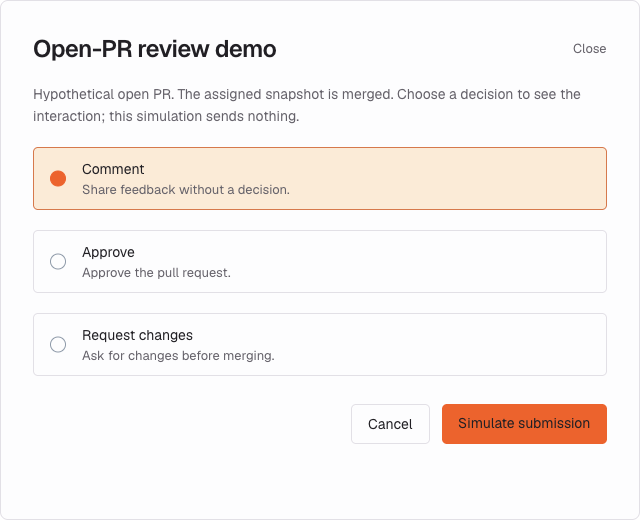
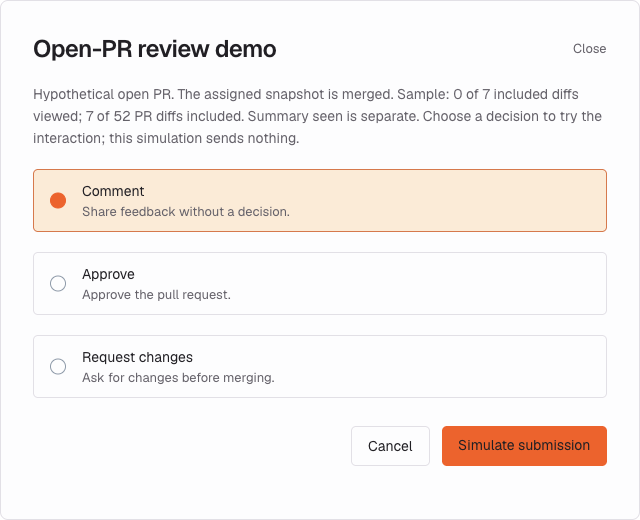
Clarify simulated review coverage and verify final submission

diff --git a/dist/app.js b/dist/app.js
@@ -216,9 +216,9 @@ function renderComments(){
  const t=data.thread;el.innerHTML=prefix+`<div class="source-filter"><span>Resolved messages shown</span><button class="text-link" data-action="hide-resolved">Hide</button></div><button class="thread-summary" data-action="open-thread"><strong>${esc(t.title)}</strong><small>${t.author} · ${t.severity} · Resolved · R${t.start}–${t.end}</small><span class="text-link">${state.thread?'Thread open':'Open historical thread'}</span></button>${state.thread?`<div class="comment-thread"><h3>Resolved source finding</h3><p>${esc(t.body)}</p><p class="small">Two reply bodies are not reproduced. Source resolution can be newer than the pinned code.</p><button class="text-link" data-comment-line="75">Add a local review note</button></div>`:''}`;
 }
 function showFiles(){if($('#dialog').open)$('#dialog').close();openDialog('Search layer 1 files',`<p>Nine verified file paths. Seven added-file diffs are included; two modified-file patches remain outside the fixture.</p><label for="file-search">Filter this layer’s files</label><input id="file-search" type="search" placeholder="Search nine verified paths"><p id="file-empty" class="small" hidden>No captured paths match. Clear the search to see all nine paths; other layers are outside this search.</p><div id="file-picker">${data.files.map(f=>`<button class="file-choice" data-file="${f.id}" data-path="${esc(f.path.toLowerCase())}"><span>${esc(f.path)}</span><small>${f.lines?'Added · +'+f.added:'Modified · patch not captured'}${state.viewed.has(f.id)?' · Viewed':''}</small></button>`).join('')}</div><div class="dialog-actions"><button value="cancel">Close</button></div>`)}
-function showReview(){openDialog('Open-PR review demo',`<p>This demonstrates review decisions for an open pull request. Formbricks #8650 is merged. This is a simulation; nothing is sent to GitHub or CodeRabbit.</p><p class="small">PR: ${state.viewed.size} of 52 files viewed. Demo: ${data.files.filter(f=>f.lines&&state.viewed.has(f.id)).length} of 7 included diffs viewed. The other 45 diffs are outside this demo. Summary seen is separate.</p><fieldset><legend>Review decision</legend>${[['comment','Comment','Share feedback without a decision.'],['approve','Approve','Approve the pull request.'],['changes','Request changes','Ask for changes before merging.']].map(([v,t,d],i)=>`<label class="decision"><input type="radio" name="decision" value="${v}" ${state.reviewDecision===v?'checked':''}><span><strong>${t}</strong><small>${d}</small></span></label>`).join('')}</fieldset><div class="dialog-actions"><button value="cancel">Cancel</button><button class="primary" id="simulate-submit" type="button">Simulate submission</button></div>`)}
+function showReview(){openDialog('Open-PR review demo',`<p>This demonstrates review decisions for an open pull request. Formbricks #8650 is merged. This is a simulation; nothing is sent to GitHub or CodeRabbit.</p><p class="small">Sample: ${data.files.filter(f=>f.lines&&state.viewed.has(f.id)).length} of 7 included diffs viewed. PR coverage: 7 of 52 diffs included. The other 45 diffs are outside this demo. Summary seen is separate.</p><fieldset><legend>Review decision</legend>${[['comment','Comment','Share feedback without a decision.'],['approve','Approve','Approve the pull request.'],['changes','Request changes','Ask for changes before merging.']].map(([v,t,d],i)=>`<label class="decision"><input type="radio" name="decision" value="${v}" ${state.reviewDecision===v?'checked':''}><span><strong>${t}</strong><small>${d}</small></span></label>`).join('')}</fieldset><div class="dialog-actions"><button value="cancel">Cancel</button><button class="primary" id="simulate-submit" type="button">Simulate submission</button></div>`)}
 function confirmReview(){const value=$('input[name=decision]:checked').value;state.reviewDecision=value;const label=value==='approve'?'Approval':value==='changes'?'Request for changes':'Comment review';$('#dialog').classList.add('is-confirmed');$('#dialog-title').innerHTML=`<span class="confirmation-check">${checkIcon}</span>Review simulated`;$('#dialog-content').innerHTML=`<div class="confirmation-body"><p>${label} simulated.</p><p>Nothing was sent to GitHub or CodeRabbit.</p></div><div class="dialog-actions"><button value="return" id="return-review">Return to review</button></div>`;$('#return-review').focus()}
-function showNotes(){openDialog('Source & prototype limits',`<p>Formbricks #8650 at the <a href="${esc(data.source.url)}" target="_blank" rel="noopener">assigned review run</a>, commit 23cdac2. This PR is merged, and the snapshot is out of date.</p><p>Seven of 52 file diffs are included. All seven layer names/counts and nine layer-1 paths were captured. Fourteen summaries have short descriptions; the six original workspace-tenant bullets are visible when selected. The two access.ts summaries have manually mapped code anchors; other summaries provide their captured start and range. Other low-complexity summary ranges remain previews. One resolved thread is paraphrased. Other content is labeled as preview.</p><details class="supporting-material"><summary>Optional supporting material</summary><p><a href="next.html">Next tests and sketches</a> · <a href="https://app.paper.design/file/01M5AQACJZP42ZGTRX7GF9ERE7/p-5-0" target="_blank" rel="noopener">Paper interaction states and review record</a></p><p class="small">The final presentation is diagnosis, matched comparison, M, then three interactions: follow a summary, switch files, and mark viewed with Undo. J/K and Z are preserved source shortcuts.</p></details><div class="state-buttons"><button type="button" data-action="review-demo">Open-PR review demo</button><button type="button" data-demo="loading">Loading state</button><button type="button" data-demo="unavailable">Source rate-limit state</button><button type="button" data-demo="empty">No-comments state</button><button type="button" data-demo="reset">Reset demo</button></div><p class="small">Review decisions and drafts stay in this tab; reload resets them. Nothing is sent. <a href="FORMBRICKS-LICENSE.txt" target="_blank" rel="noopener">Formbricks source license</a></p><div class="dialog-actions"><button value="cancel">Close</button></div>`)}
+function showNotes(){openDialog('Source & prototype limits',`<p>Formbricks #8650 at the <a href="${esc(data.source.url)}" target="_blank" rel="noopener">assigned review run</a>, commit 23cdac2. This PR is merged, and the snapshot is out of date.</p><p>Seven of 52 file diffs are included. All seven layer names/counts and nine layer-1 paths were captured. Fourteen summaries have short descriptions; the six original workspace-tenant bullets are visible when selected. The two access.ts summaries have manually mapped code anchors; other summaries provide their captured start and range. Other low-complexity summary ranges remain previews. One resolved thread is paraphrased. Other content is labeled as preview.</p><details class="supporting-material"><summary>Optional supporting material</summary><p><a href="next.html">Next tests and sketches</a> · <a href="https://app.paper.design/file/01M5AQACJZP42ZGTRX7GF9ERE7/p-5-0" target="_blank" rel="noopener">Paper interaction states and review record</a></p><p class="small">The presentation follows the diagnosis and matched comparison with one review path: follow the access check into its guard, return to the caller, switch context scope, then mark viewed and Undo. J/K and Z are preserved source shortcuts.</p></details><div class="state-buttons"><button type="button" data-action="review-demo">Open-PR review demo</button><button type="button" data-demo="loading">Loading state</button><button type="button" data-demo="unavailable">Source rate-limit state</button><button type="button" data-demo="empty">No-comments state</button><button type="button" data-demo="reset">Reset demo</button></div><p class="small">Review decisions and drafts stay in this tab; reload resets them. Nothing is sent. <a href="FORMBRICKS-LICENSE.txt" target="_blank" rel="noopener">Formbricks source license</a></p><div class="dialog-actions"><button value="cancel">Close</button></div>`)}
 function preview(name){const descriptions={Overview:'Feedback records MCP integration · 52 files, seven layers. The selected review snapshot is out of date at 23cdac2. No live mergeability status is inferred.','Architecture impact':'The source exposes Security architecture impact. Its analysis was not captured; this is a placement preview.','Review history':'The captured source labels this review snapshot Stale / Out of date at commit 23cdac2. No other review history entries are fabricated.',Settings:'The source exposes display settings. Unified/Split and Full file are demonstrated; other preferences remain previews.','Low complexity':'Low-complexity summaries exist in the source, but their complete ranges were not captured. They are not counted as absent. Automatic follow-code and uncaptured summary controls remain placement previews.'};if(name==='Search pull request'){openDialog('PR search · preview',`<p>The original searches the pull request. This demo searches only nine verified layer-1 paths.</p><button type="button" data-action="files">Search layer 1 files</button><div class="dialog-actions"><button value="cancel">Return to review</button></div>`);return}if(!descriptions[name]){showNotes();return}openDialog(name,`<p>${descriptions[name]}</p><p class="small">Captured source or clearly labeled supporting preview. No external action.</p><div class="dialog-actions"><button value="cancel">Return to review</button></div>`)}
 const semanticOutline=[['TResolveParams',23,30],['TResolvedFeedbackTenant',32,39],['resolveWorkspaceFeedbackTenant',49,130],['TRequireOwnedRecordParams',132,140],['requireOwnedFeedbackRecord',156,186],['forbidFeedbackRecord',193,194]];
 function showTools(){const f=currentFile();openDialog('File tools',`<p>Full file displays all captured added-file lines. Captured ranges displays only included summary ranges. The source semantic engine and automatic follow-code are not reproduced.</p><div class="state-buttons"><button type="button" data-action="full-file">${state.fullFile?'Show captured ranges only':'Show full added file'}</button><button type="button" data-action="copy-path">Copy file path</button><button type="button" data-action="wrap-code" aria-pressed="${wrapsCode()}">${wrapsCode()?'Unwrap':'Wrap'} long lines</button><button type="button" data-action="collapse-file">Collapse current diff</button><button type="button" data-action="bulk-viewed">Mark 7 included files viewed</button></div>${f?.id==='0'?`<h3>Semantic outline · access.ts</h3><p class="small">Six entities manually mapped to the pinned source.</p>${semanticOutline.map(([name,start,end])=>`<button class="file-choice" data-outline="${start}" data-outline-end="${end}">${name} · L${start}–${end}</button>`).join('')}`:'<p class="small">Semantic entities for this file have not been mapped.</p>'}<div class="dialog-actions"><button value="cancel">Return to review</button></div>`)}

diff --git a/dist/index.html b/dist/index.html
@@ -38,6 +38,6 @@
   <p id="code-instructions" class="sr-only">Enter opens a note at the first visible line. On a line comment action, use Up and Down to move between lines. F6 switches between code and context.</p><div class="sr-only" id="interaction-status" role="status" aria-live="polite"></div>
   <div class="toast" role="status" id="toast" hidden></div>
   <dialog id="dialog" aria-labelledby="dialog-title"><form method="dialog" id="dialog-form"><div class="dialog-heading"><h2 id="dialog-title"></h2><button class="quiet" value="cancel" aria-label="Close dialog">Close</button></div><div id="dialog-content"></div></form></dialog>
-  <script src="app.js?v=third-pass-20261022" defer></script>
+  <script src="app.js?v=final-check-20261022" defer></script>
 </body>
 </html>

diff --git a/docs/submission-walkthrough.md b/docs/submission-walkthrough.md
@@ -16,7 +16,7 @@ The main snapshot is merged and Submit review is disabled. If asked, Source note
 
 The direct links are manually mapped navigation anchors. The complete source summary remains visible. Inspect guard supports one captured caller/guard route; it does not establish automatic dependency navigation. Full file and Captured ranges are display modes, not a semantic-diff engine. The six captured access.ts entities are available in Tools. Copy path and Add file note preserve narrow source workflows.
 
-The revised direct links, guard/return, scopes, progress/Undo, notes, Copy path, six entities and keyboard flows passed implementation checks at 1440px and 1100px. Developer testing remains outstanding. The prototype includes seven of 52 diffs from the out-of-date 23cdac2 snapshot; modified-file review needs further work.
+The revised direct links, guard/return, scopes, progress/Undo, notes, Copy path, six entities and keyboard flows passed implementation checks at 1440px, 1280px and 1100px. Developer testing remains outstanding. The prototype includes seven of 52 diffs from the out-of-date 23cdac2 snapshot; modified-file review needs further work.
 
 ## Submission links
 

diff --git a/docs/REQUIREMENT-AUDIT.md b/docs/REQUIREMENT-AUDIT.md
@@ -1,6 +1,6 @@
 # Assignment cross-check
 
-Updated October 22, 2026. Direct links, guard/return, scopes, progress/Undo, notes, Copy path, six entities and keyboard checks passed at 1440px and the 1100px overlay breakpoint.
+Updated October 22, 2026. Direct links, guard/return, scopes, progress/Undo, notes, Copy path, six entities and keyboard checks passed at 1440px, 1280px and the 1100px overlay breakpoint.
 
 The submission is one layer-based reviewing screen, editable Paper and a one-page rationale. It uses the exact assigned Formbricks #8650 review snapshot at 23cdac2. The PR is merged and the snapshot is out of date. Seven captured added-file diffs support the demonstration; the exercise does not recreate all 52 files.
 
